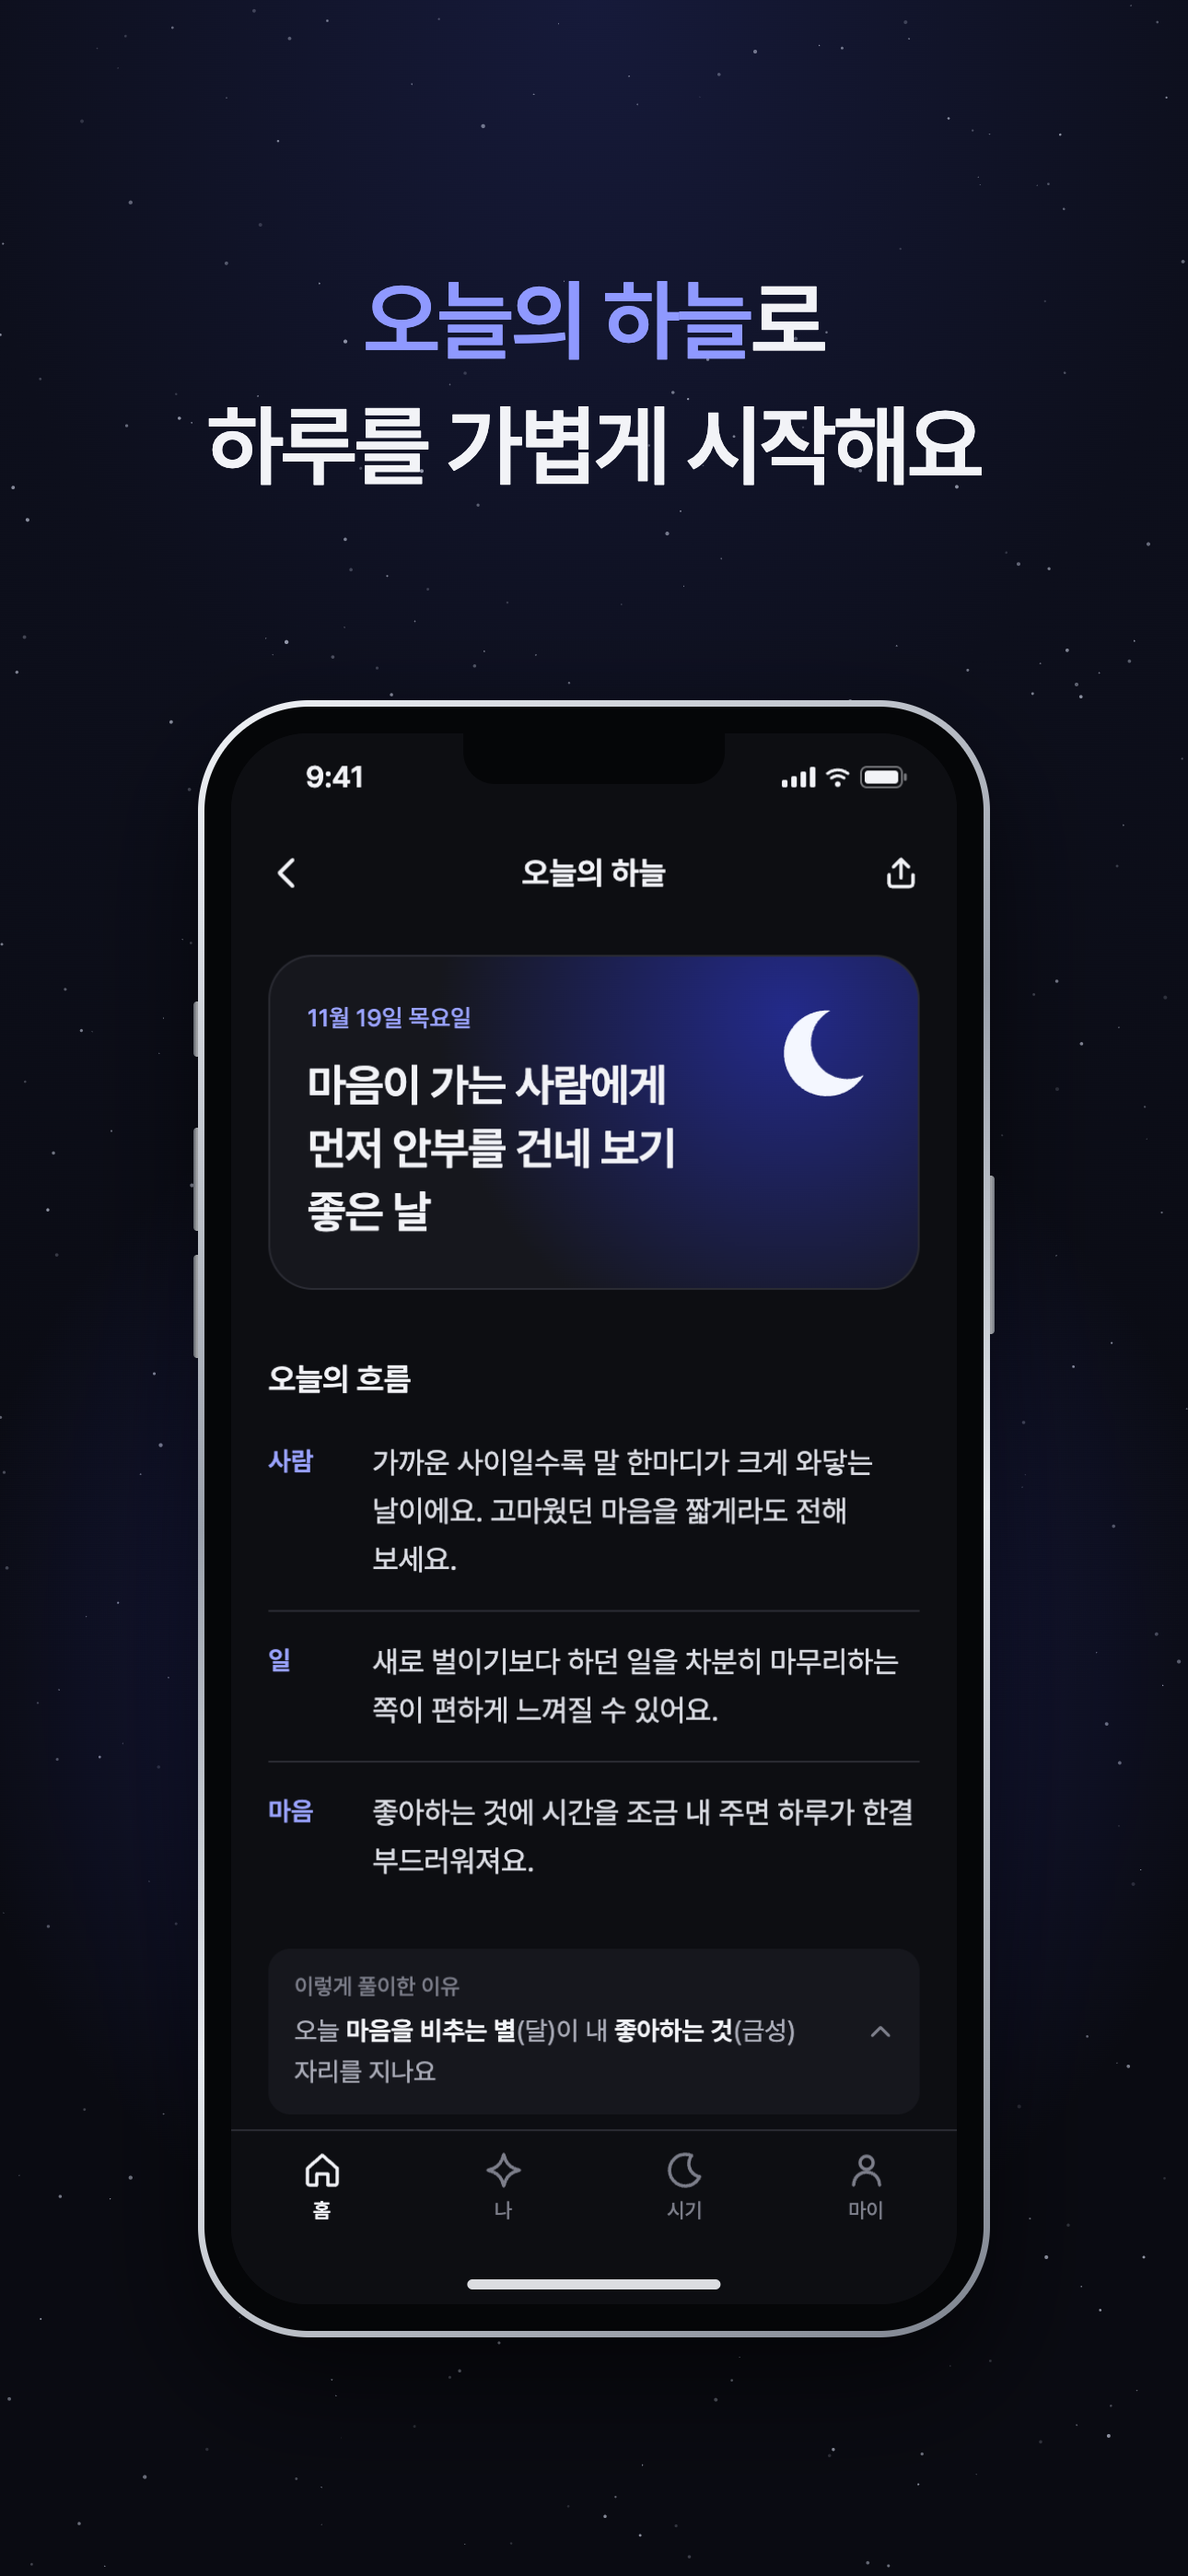
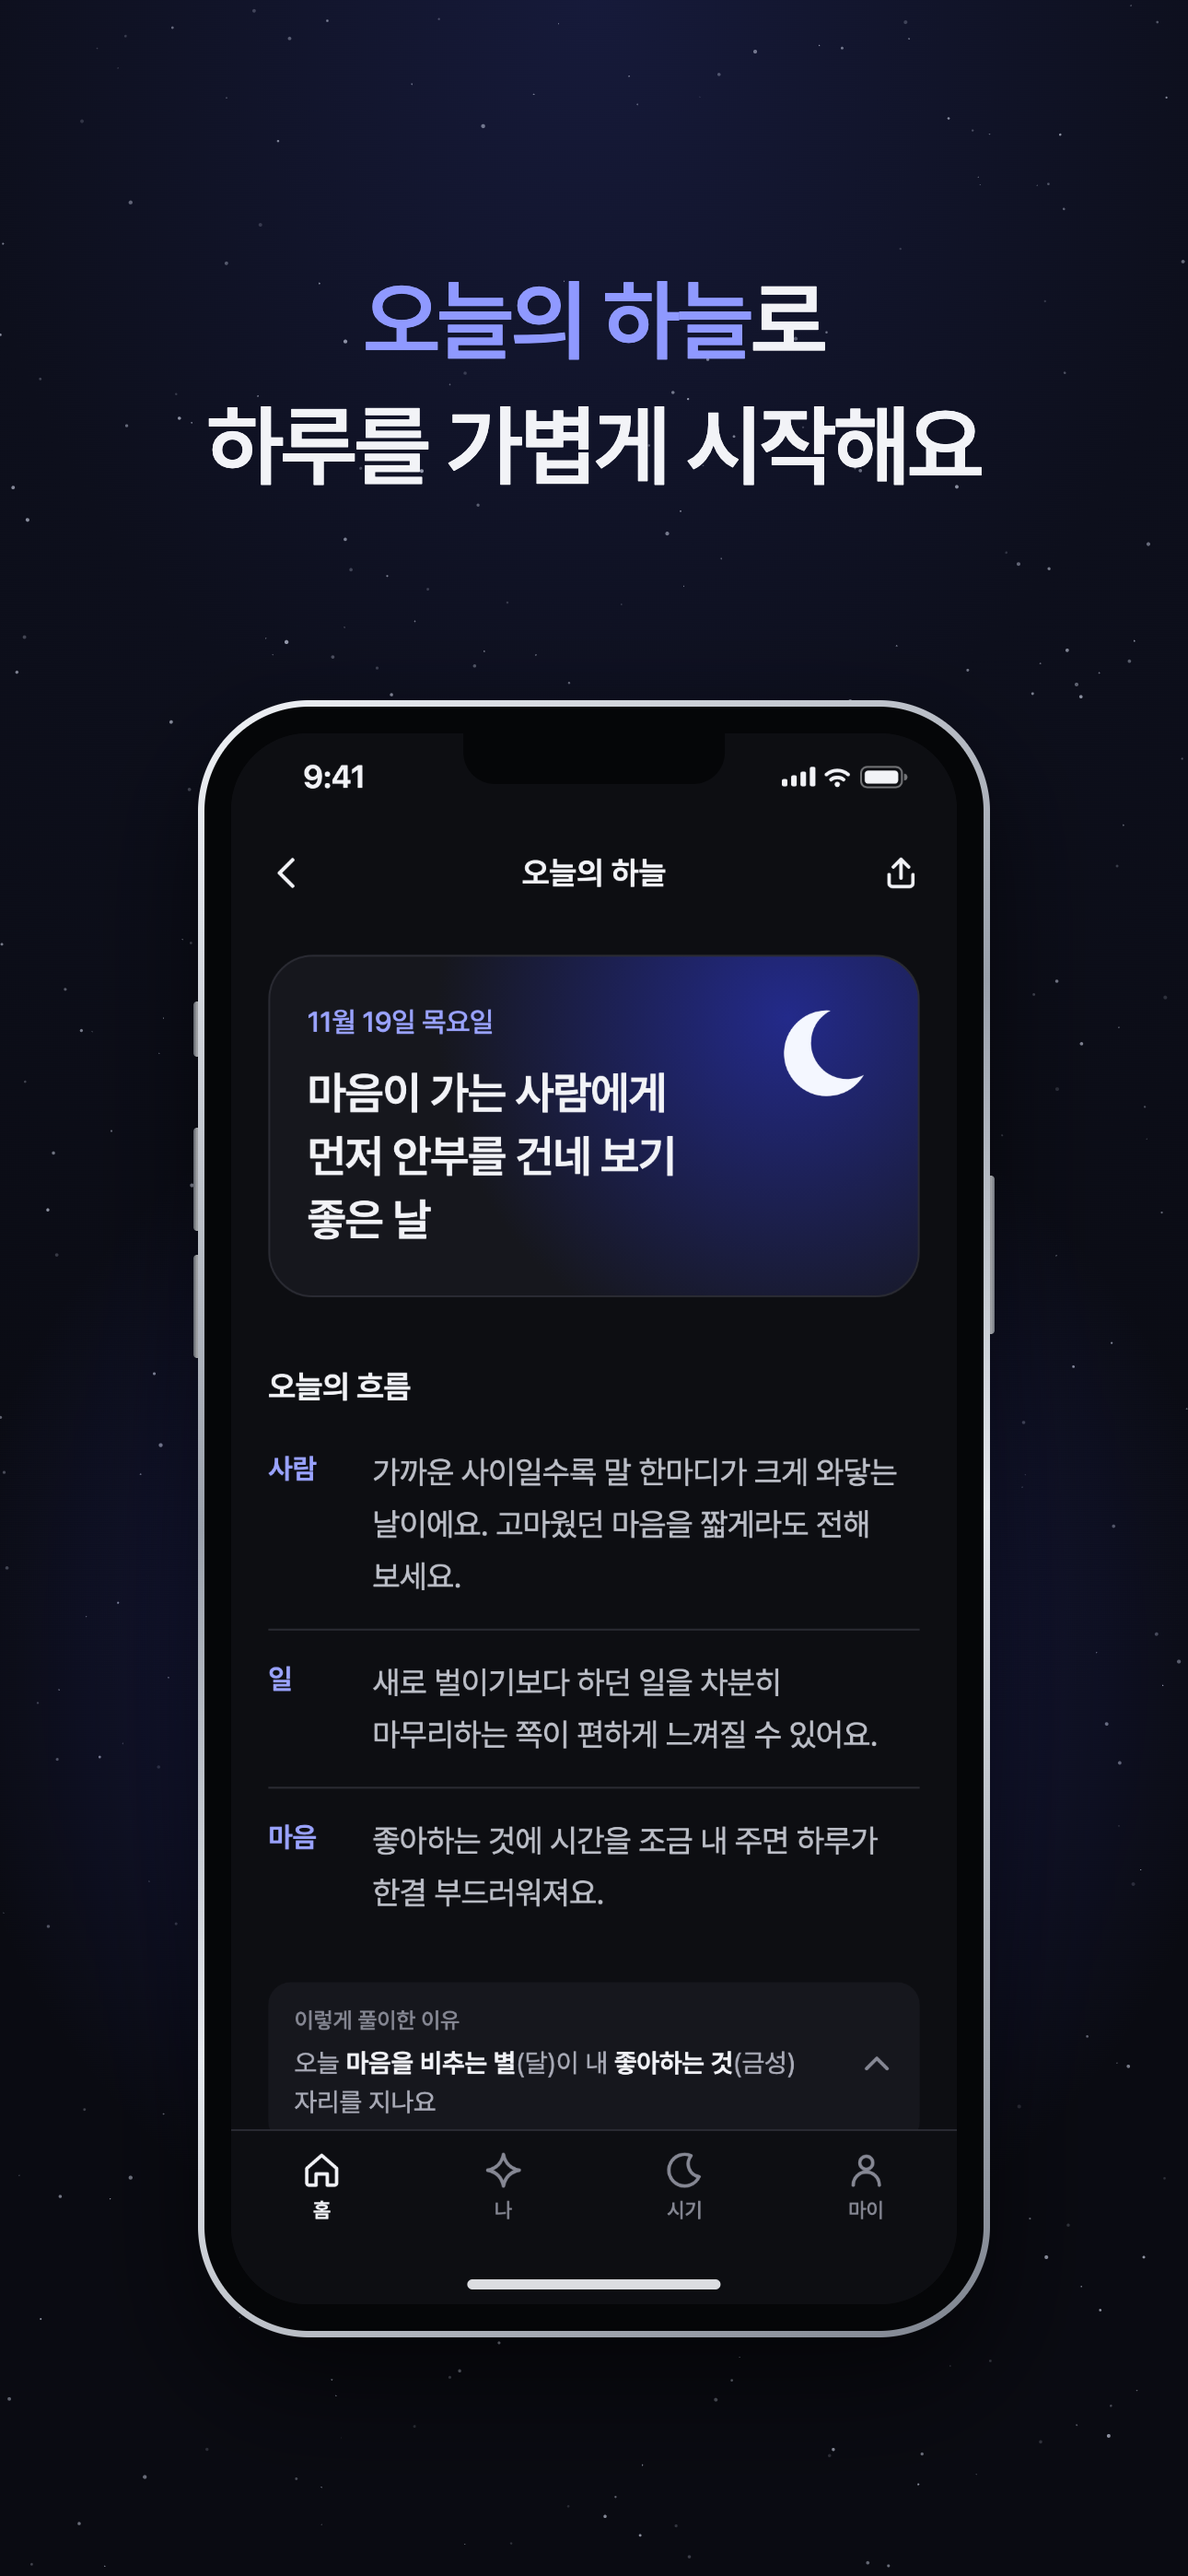
chore(store): 앱스토어 미리보기 03 · 04 · 05 · 07 을 새 디자인 화면으로 (#10)
* chore(store): 앱스토어 미리보기 03 홈 · 04 오늘의 하늘 · 05 나 · 07 내 하늘 지도를 새 디자인 화면으로 바꾼다

소유자 2026-11-26 "지금 바꿔줘". 앱을 다시 찍지 않고 디자인 원본(시안 HTML)에서 390×844 @3배로 그렸다.
- 03 홈: 홈 A안 "오늘을 크게"(결정 092, 시안 "홈 다시 기획" 보드 3) — 오늘의 하늘 큰 카드 · 오늘의 작은 실천 · 지금 나의 시기 한 줄(위쪽 844)
- 04 오늘의 하늘: 캔버스 11-4(글자 v2 — 읽는 글 17/28 · 본문 #BCBFC8)
- 05 나: 캔버스 12-8 성격 칩
- 07 내 하늘 지도: 캔버스 13(해를 고른 상태)
- 상태 막대 9:41 은 옛 그림과 같은 자리 · 모양(47pt), 아래 탭 넷
- 02 별명 공개 · 06 시기 · 08 공유는 지금 보드와 거의 같아(평균 화소 차 1 미만) 그대로 둔다. 01 브랜드도 그대로
- 문구(위 두 줄)는 그대로. 플레이(1080×1920)는 이번에 다시 찍지 않았다

* fix(store): 03 홈 오늘의 하늘 이름표 요일을 토요일로 고친다(2026-11-21 은 토요일)

* fix(store): 03 홈을 새 홈 보드로 다시 그린다(작은 실천 B안, 눈여겨볼 날 왼쪽 자르기)

- 오늘의 작은 실천: 번호 동그라미 32, 숫자 15 굵게, 이름표 아래 15, 줄 사이 14, 줄 최소 32(결정 095, 앱 #146)
- 이번 달 눈여겨볼 날: 칸 136, 왼쪽은 홈 여백에서 잘리고 오른쪽만 화면 끝까지(결정 094, 앱 #145)
- 원본: 시안 "홈 다시 기획" 안 A 보드(11월 21일 토요일)

* docs(store): 앱스토어 iPhone 필수 칸은 1179×2556 — 1290×2796 은 줄여서 올린다

---------

diff --git a/README.md b/README.md
@@ -29,8 +29,9 @@
 - `og/` 와 README 는 배포에 넣지 않는다(`.vercelignore`)
 
 ## 스토어 등록 이미지
-- `store/out/ios/01~08.png`(1290×2796, 앱스토어 아이폰 6.9형) · `store/out/play/01~08.png`(1080×1920, 플레이 휴대폰) · `store/out/play/feature.png`(1024×500, 플레이 대표 그래픽). 앱스토어 · 플레이스토어 앱 페이지의 "미리보기" 칸에 올린다. 아이패드는 앱이 지원하지 않아 없다
+- `store/out/ios/01~08.png`(1290×2796 원본 — **App Store Connect 에는 1179×2556 으로 줄여 올린다**, 아래) · `store/out/play/01~08.png`(1080×1920, 플레이 휴대폰) · `store/out/play/feature.png`(1024×500, 플레이 대표 그래픽). 앱스토어 · 플레이스토어 앱 페이지의 "미리보기" 칸에 올린다. 아이패드는 앱이 지원하지 않아 없다
 - 원본은 `store/shot.html`(sou.zip 스토어 이미지처럼: 위 두 줄 제목 + 실제 아이폰 모양 + 별 하늘. 1 장은 브랜드). 폰 화면은 `store/screens/*.png`(캔버스 앱 보드를 2배로 찍은 것)
+- **앱스토어 올리는 크기(2026-11 기준)**: App Store Connect 의 iPhone 필수 칸은 "Dynamic Island 지원 iPhone(중형 디스플레이)"이고 1179×2556 · 1206×2622 만 받는다. 1290×2796(옛 6.9형)은 "파일 크기가 유효하지 않습니다"로 거절된다(대형 칸은 선택이라 기본 화면에 없다). 찍은 뒤 `sips -z 2556 1179 -s format jpeg -s formatOptions 95 store/out/ios/0N.png --out 0N.jpg` 로 줄인다 — 비율이 거의 같아 잘리지 않는다. 올리기 전에 [스크린숏 규격](https://developer.apple.com/help/app-store-connect/reference/app-information/screenshot-specifications/)에서 필수 칸 크기를 다시 본다
 - 다시 찍기: 저장소 맨 위에서 `python3 -m http.server 47817` 을 띄우고 `"/Applications/Google Chrome.app/Contents/MacOS/Google Chrome" --headless=new --hide-scrollbars --window-size=1290,2796 --virtual-time-budget=6000 --screenshot="$PWD/store/out/ios/02.png" "http://127.0.0.1:47817/store/shot.html?s=ios&n=2"` (플레이는 `--window-size=1080,1920` · `s=play`, 대표 그래픽은 `--window-size=1024,500` · `s=feature`)
 - `store/` 는 배포에 넣지 않는다(`.vercelignore`)
 
